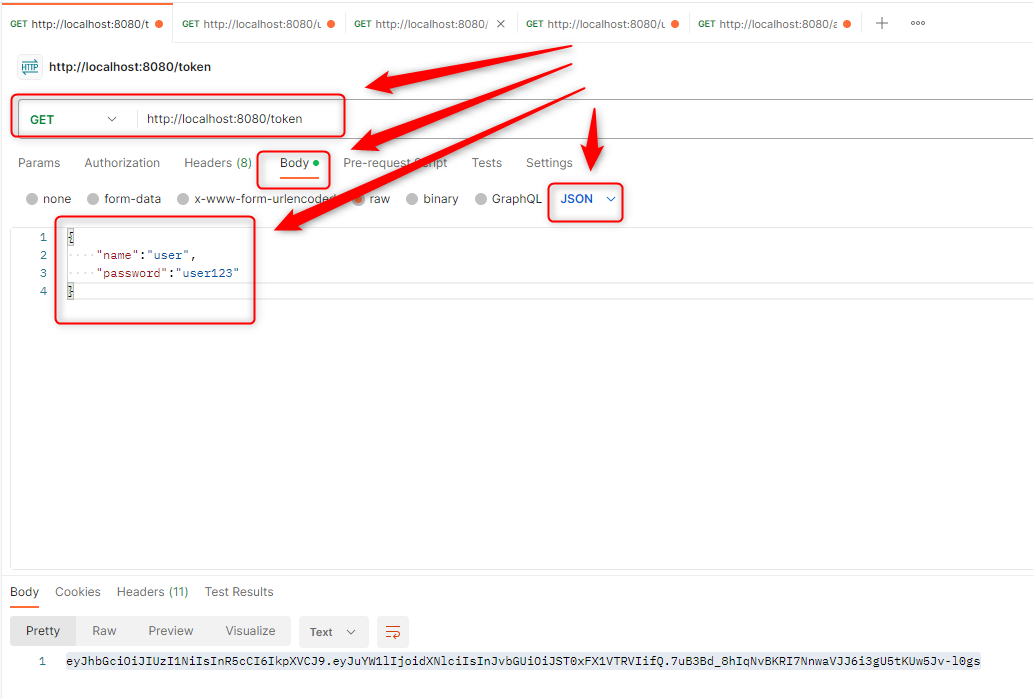
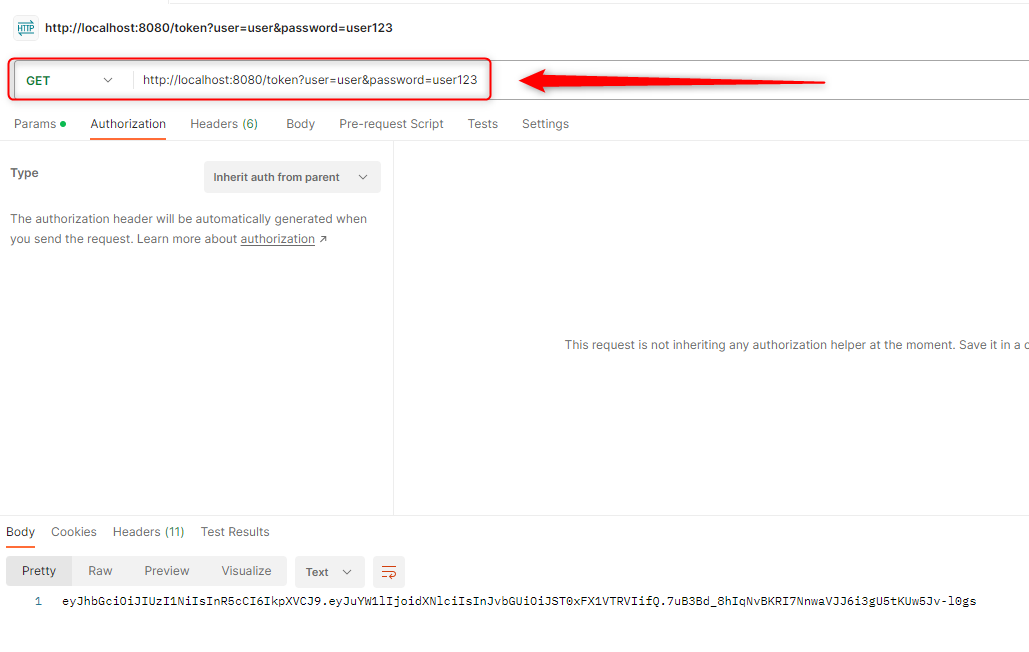
Update URL and OAuth2 project

Changed region(s): [[0.0, 0.0, 1.0, 0.4908], [0.0, 0.7975, 0.964, 0.9816], [0.5598, 0.5215, 1.0, 0.5521]]

diff --git a/others/security/api/api-springsec-tworeq-source-url-params-then-oauth2/src/main/java/com/example/controllers/TokenController.java b/others/security/api/api-springsec-tworeq-source-url-params-then-oauth2/src/main/java/com/example/controllers/TokenController.java
@@ -45,12 +45,14 @@ public class TokenController {
 
 	private UserJson getUserJson(HttpServletRequest request) throws IOException {
 
-        String requestData = request.getReader().lines().collect(Collectors.joining());
-        if (StringUtils.isBlank(requestData)) {
+        String user = request.getParameter("user");
+        String password = request.getParameter("password");
+
+        if (StringUtils.isBlank(user) || StringUtils.isBlank(password)) {
             return null;
         }
 
-        return new Gson().fromJson(requestData, UserJson.class);
+        return new UserJson(user, password);
 
     }
 

diff --git a/others/security/api/api-springsec-tworeq-source-url-params-then-oauth2/src/main/java/com/example/jsons/UserJson.java b/others/security/api/api-springsec-tworeq-source-url-params-then-oauth2/src/main/java/com/example/jsons/UserJson.java
@@ -6,6 +6,11 @@ public class UserJson {
     private String password;
 
     public UserJson() {}
+
+    public UserJson(String name, String password) {
+        this.name = name;
+        this.password = password;
+    }    
     
     public String getName() {
         return name;

diff --git a/others/security/api/api-springsec-tworeq-source-url-params-then-oauth2/README.md b/others/security/api/api-springsec-tworeq-source-url-params-then-oauth2/README.md
@@ -4,9 +4,9 @@ USAGE
 Usage steps:
 1. Start application with `mvn spring-boot:run`
 1. Send GET request with Postman to URL `http://localhost:8080/`
-1. Get **User Token** with GET request in Postman (**Body** type **JSON** as **{"name":"user","password":"user123"}** to URL `http://localhost:8080/token`
+1. Get **User Token** with GET request in Postman to URL `http://localhost:8080/token?user=user&password=user123`
 1. Send GET request with Postman (**Authorization** type **Token Bearer** and value **User Token**) to URL `http://localhost:8080/user`
-1. Get **Admin Token** with GET request in Postman (**Body** type **JSON** as **{"name":"admin","password":"admin123"}** to URL `http://localhost:8080/token`
+1. Get **Admin Token** with GET request in Postman to URL `http://localhost:8080/token?user=admin&password=admin123`
 1. Send GET request with Postman (**Authorization** type **Token Bearer** and value **Admin Token**) to URL `http://localhost:8080/user`
 1. Send GET request with Postman (**Authorization** type **Token Bearer** and value **Admin Token**) to URL `http://localhost:8080/admin`
 1. Clean up environment:
